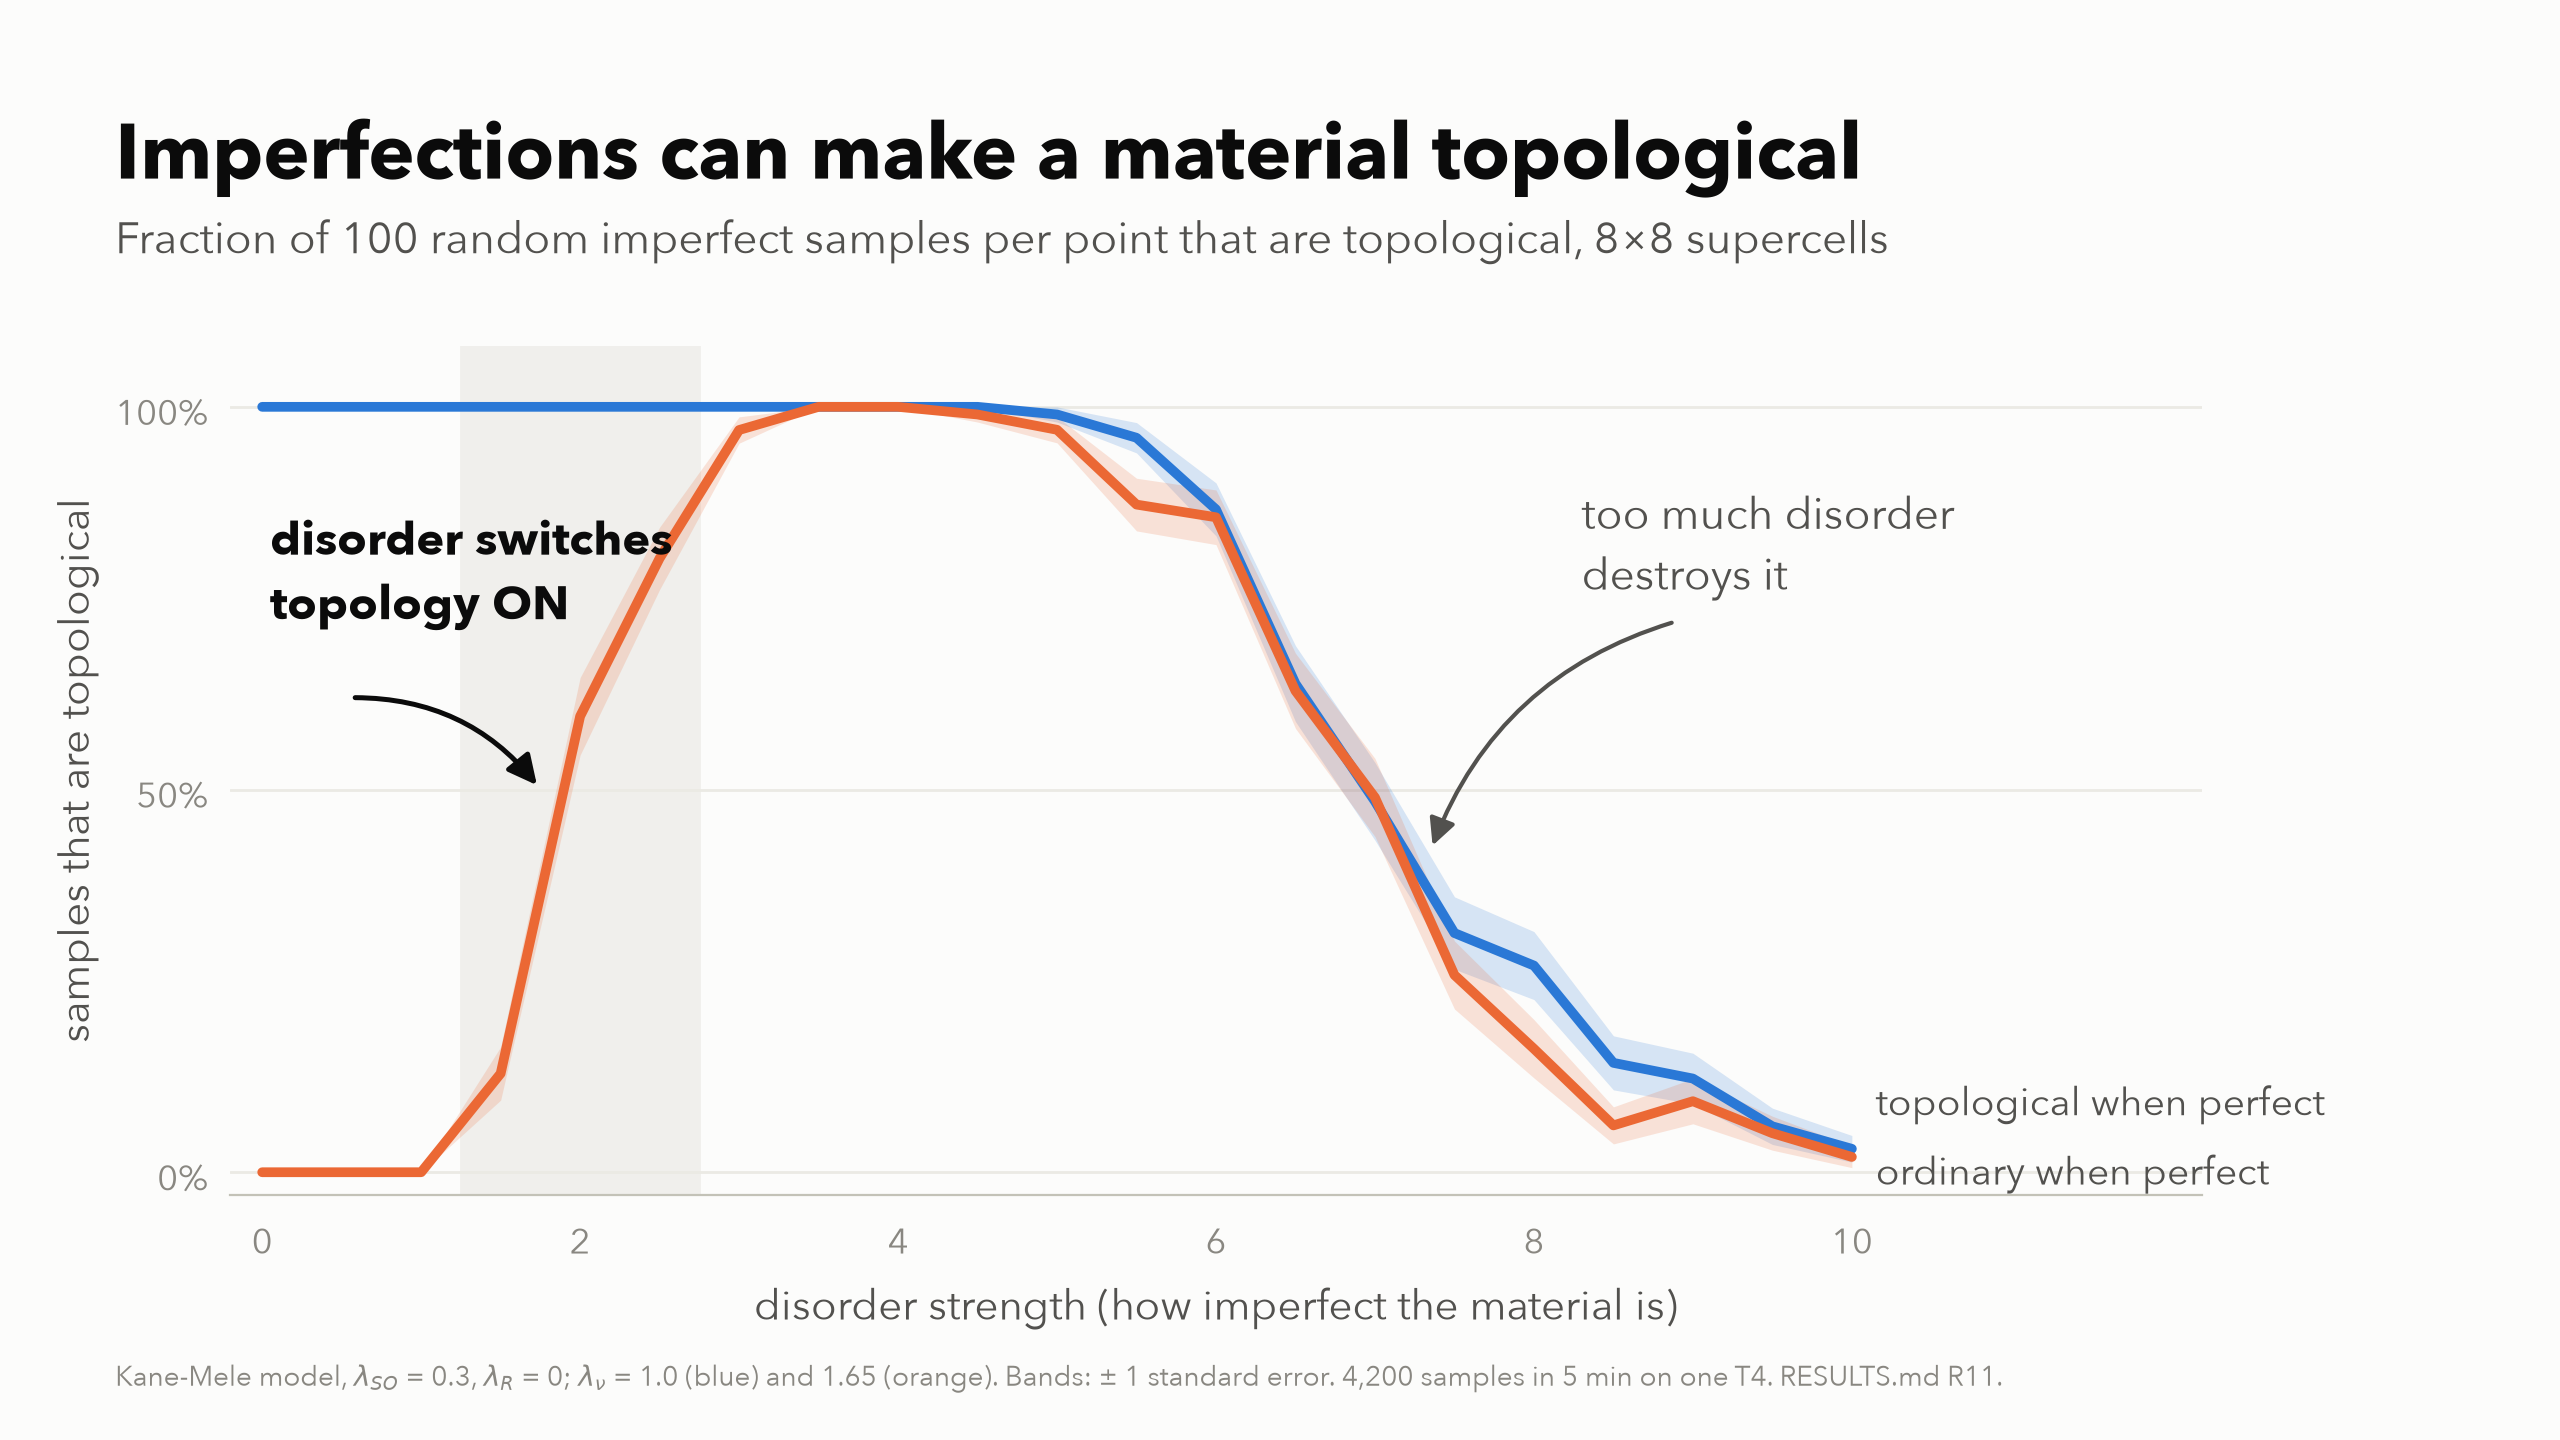
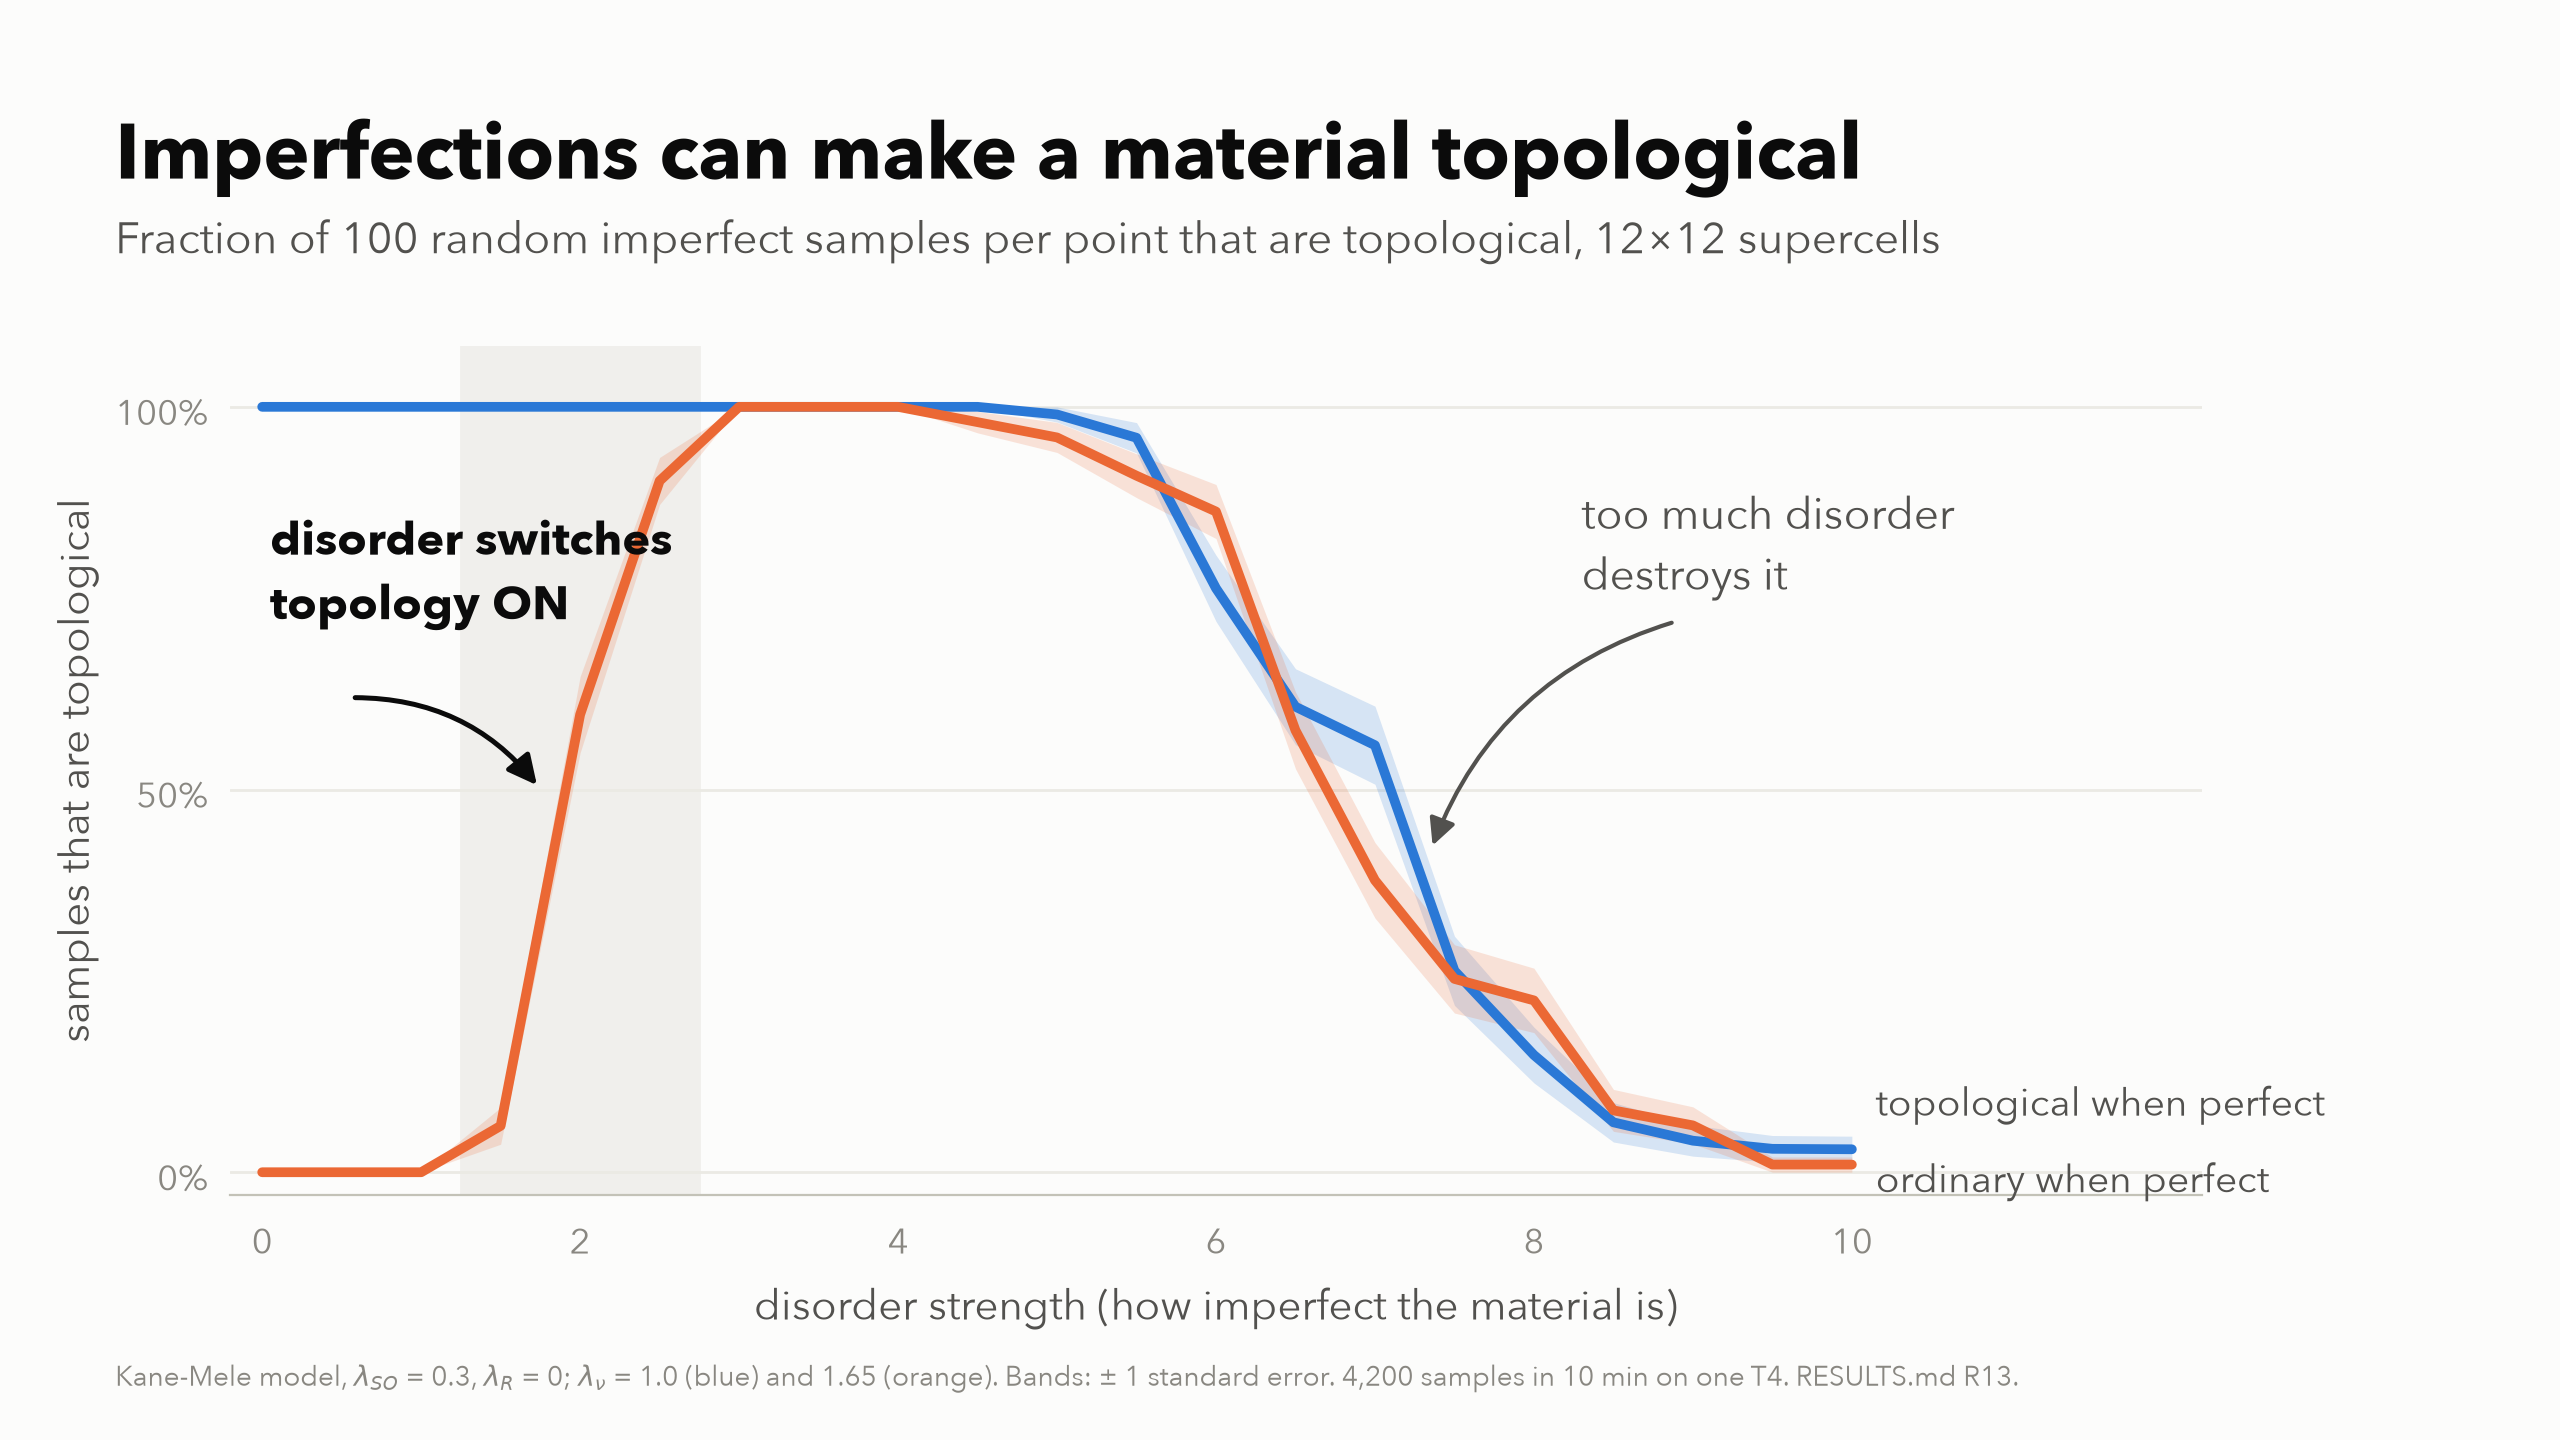
R13: finite-size scaling, the switch-on sharpens with size (8/12/16)
lambda_nu = 1.65: at W = 1.5 13% / 6% / 2% topological, at W = 2.5 80% / 90%
/ 98% for 8x8 / 12x12 / 16x16; curves cross near W ~ 1.9-2.0. 6,300 samples
in ~20 min of T4 time. Slides 3 (now 12x12) and 4 (sizes).

diff --git a/hackathon/presentation/slide_charts.py b/hackathon/presentation/slide_charts.py
@@ -35,6 +35,8 @@ from style import (
 HERE = Path(__file__).resolve().parent.parent
 COST = HERE / "results" / "kaggle" / "20261121-213825" / "out" / "sweep_cost.csv"  # R12
 PILOT = HERE / "results" / "sweep" / "pilot_8x8_c_up.csv"  # R11
+FSS12 = HERE / "results" / "sweep" / "fss_12x12_c_up.csv"  # R13
+FSS16 = HERE / "results" / "sweep" / "fss_16x16_c_up.csv"  # R13
 
 
 def rows(path: Path) -> list[dict]:
@@ -128,7 +130,7 @@ def slide_split(size: int = 16) -> Path:
 
 
 def slide_disorder_switch() -> Path:
-    data = rows(PILOT)
+    data = rows(FSS12)
     fig, ax = new_slide()
     ax.axvspan(1.25, 2.75, color=TINT, zorder=0)
     for lam, colour, label in ((1.0, BLUE, "topological when perfect"),
@@ -157,12 +159,51 @@ def slide_disorder_switch() -> Path:
     ax.set_xlabel("disorder strength (how imperfect the material is)")
     ax.set_ylabel("samples that are topological")
     titled(fig, "Imperfections can make a material topological",
-           "Fraction of 100 random imperfect samples per point that are topological, 8×8 supercells",
+           "Fraction of 100 random imperfect samples per point that are topological, 12×12 supercells",
            r"Kane-Mele model, $\lambda_{SO}$ = 0.3, $\lambda_R$ = 0; $\lambda_\nu$ = 1.0 (blue) and 1.65 "
-           "(orange). Bands: ± 1 standard error. 4,200 samples in 5 min on one T4. RESULTS.md R11.")
+           "(orange). Bands: ± 1 standard error. 4,200 samples in 10 min on one T4. RESULTS.md R13.")
     return save(fig, "3_disorder_switch.png", left=0.09, right=0.86, bottom=0.17, top=0.76)
 
 
+# ---------------------------------------------------------------- 4. sizes
+
+
+def slide_sizes() -> Path:
+    """Finite-size scaling of the switch-on: lambda_nu = 1.65, three supercell sizes."""
+    from style import BLUE_DARK
+
+    curves = [(PILOT, 8, "#86b6ef"), (FSS12, 12, "#3987e5"), (FSS16, 16, BLUE_DARK)]
+    fig, ax = new_slide()
+    ax.axvspan(1.85, 2.0, color=TINT, zorder=0)
+    for path, n, colour in curves:
+        pts = sorted((float(r["W"]), float(r["frac_topological"]), float(r["stderr"]))
+                     for r in rows(path) if abs(float(r["lambda_nu"]) - 1.65) < 1e-9
+                     and float(r["W"]) <= 4.0 + 1e-9)
+        W, f, e = (np.array(v) for v in zip(*pts, strict=True))
+        ax.fill_between(W, np.clip(f - e, 0, 1), np.clip(f + e, 0, 1), color=colour, alpha=0.2,
+                        linewidth=0)
+        ax.plot(W, f, color=colour, lw=3.5, marker="o", ms=6, markeredgecolor=SURFACE,
+                markeredgewidth=1.5, label=f"{n}×{n} supercell")
+    ax.text(1.925, 1.06, "curves cross\nW ≈ 1.9–2.0", ha="center", va="bottom", fontsize=14,
+            color=INK_2)
+    ax.text(2.75, 0.32, "bigger systems:\na sharper switch", fontsize=17, fontweight="bold",
+            color=INK, va="center")
+    ax.set_xlim(0.9, 4.0)
+    ax.set_ylim(-0.03, 1.2)
+    ax.set_yticks([0, 0.5, 1], ["0%", "50%", "100%"])
+    ax.yaxis.grid(True)
+    ax.spines["left"].set_visible(False)
+    ax.legend(loc="lower right", fontsize=15)
+    ax.set_xlabel("disorder strength (how imperfect the material is)")
+    ax.set_ylabel("samples that are topological")
+    titled(fig, "The switch gets sharper as the system grows",
+           "The hallmark of a real transition: three system sizes, 100 imperfect samples per point",
+           r"Kane-Mele, $\lambda_\nu$ = 1.65 (ordinary when perfect), $\lambda_{SO}$ = 0.3, "
+           r"$\lambda_R$ = 0. Bands: ± 1 standard error. 16×16: 2,100 samples in 10 min on one T4. "
+           "RESULTS.md R13.")
+    return save(fig, "4_sizes.png", left=0.09, right=0.95, bottom=0.17, top=0.76)
+
+
 if __name__ == "__main__":
-    for make in (slide_speed, slide_split, slide_disorder_switch):
+    for make in (slide_speed, slide_split, slide_disorder_switch, slide_sizes):
         print(f"wrote {make()}")

diff --git a/hackathon/RESULTS.md b/hackathon/RESULTS.md
@@ -345,6 +345,32 @@ Findings:
 - These are **estimates** (measured rate × samples), not full runs; the CPU is Kaggle's 4 cores. A
   bigger CPU narrows the gap, a bigger GPU (A100/H100) likely widens it: not measured.
 
+## R13. Finite-size scaling: 12×12 and 16×16 sweeps (KAG)
+
+What: as R11 (C_up, λ_SO = 0.3, λ_R = 0, 100 samples per point, 6×6 mesh, uncertain re-run at
+10×10) at bigger supercells: 12×12 for both λ_ν over W = 0–10 (step 0.5); 16×16 for λ_ν = 1.65
+over W = 0–5 (step 0.25), around the switch-on.
+Command: `PRESET=fss bash kaggle/gpu_run.sh` · Kaggle run 21 Nov 21:58–22:19 · data
+`results/sweep/fss_12x12_c_up.csv`, `results/sweep/fss_16x16_c_up.csv` (raw:
+`results/kaggle/20261121-215811/`) · slides `results/figures/slides/3_disorder_switch.png`,
+`4_sizes.png`
+
+**Switch-on at λ_ν = 1.65 (fraction topological):**
+
+| W | 1.5 | 1.75 | 2.0 | 2.25 | 2.5 | 3.0 |
+|---|---|---|---|---|---|---|
+| 8×8 (R11) | 0.13 | | 0.60 | | 0.80 | 0.97 |
+| 12×12 | 0.06 | | 0.60 | | 0.90 | 1.00 |
+| 16×16 | 0.02 | 0.20 | 0.65 | 0.87 | 0.98 | 1.00 |
+
+- **The switch sharpens with system size** (bigger: lower before, higher after) and the curves
+  cross near **W ≈ 1.9–2.0** (rough, from linear interpolation between points; a proper
+  crossing/collapse analysis is still to do). The hallmark of a genuine transition.
+- Switch-off (12×12): crosses 50% near W ≈ 7.0 (λ_ν = 1.0) and W ≈ 6.7 (λ_ν = 1.65), as at 8×8.
+- Uncertain after refinement: 0–11 of 100 per point (most at 16×16, W = 1.75); gap closed: 0.
+- GPU time: 12×12, 4,200 samples in 9.6 min (0.14 s/sample); 16×16, 2,100 samples in 10.2 min
+  (0.29 s/sample). By R12's rates the same work with PythTB on 4 CPU cores would take ~8 h + ~22 h.
+
 ---
 
 ## Still to measure
@@ -359,4 +385,6 @@ Findings:
 - [x] Spin-block split for λ_R = 0 (R10: helps from 12×12)
 - [ ] Use both T4s
 - [x] First sweep, 8×8 pilot (R11): disorder switches topology on at λ_ν = 1.65
-- [ ] Main sweep at 12×12 (+16×16) with the CPU time estimate (the headline for the pitch)
+- [x] 12×12 and 16×16 sweeps (R13): the switch sharpens with size, crossing near W ≈ 1.9–2.0
+- [x] CPU time estimate for whole sweeps (R12)
+- [ ] Proper crossing / data-collapse estimate of the critical W (finite-size scaling analysis)
